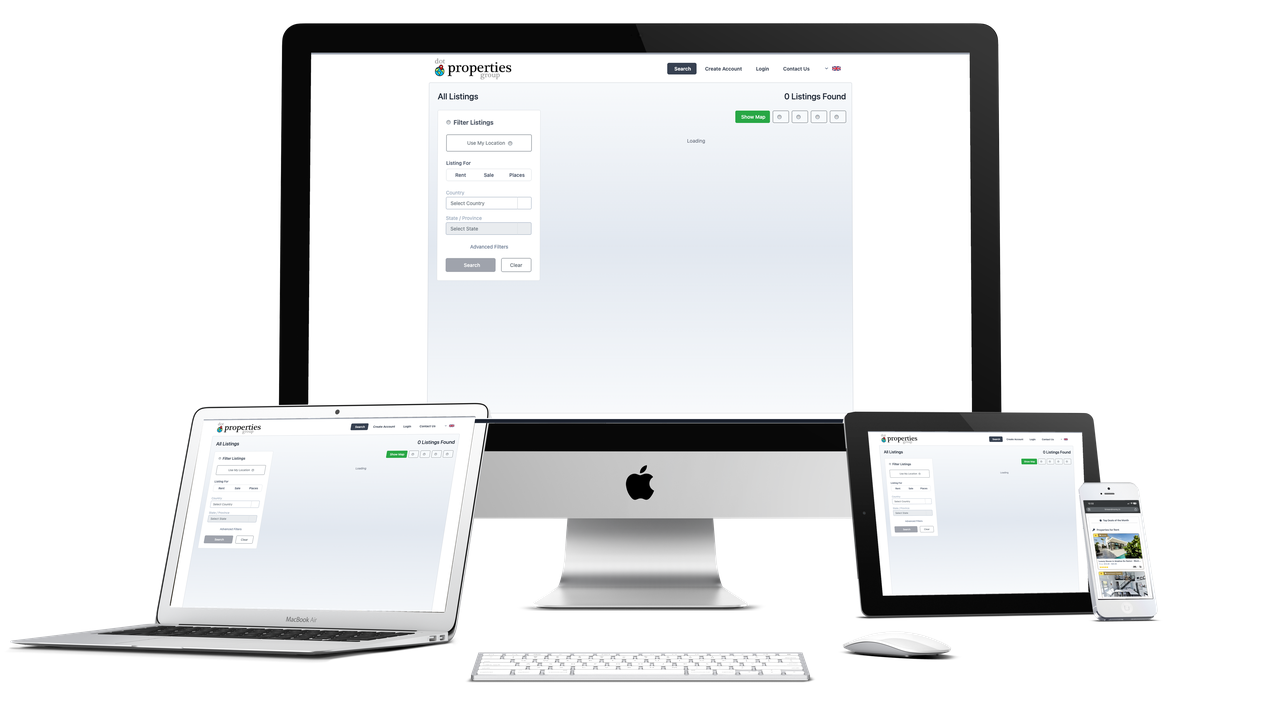
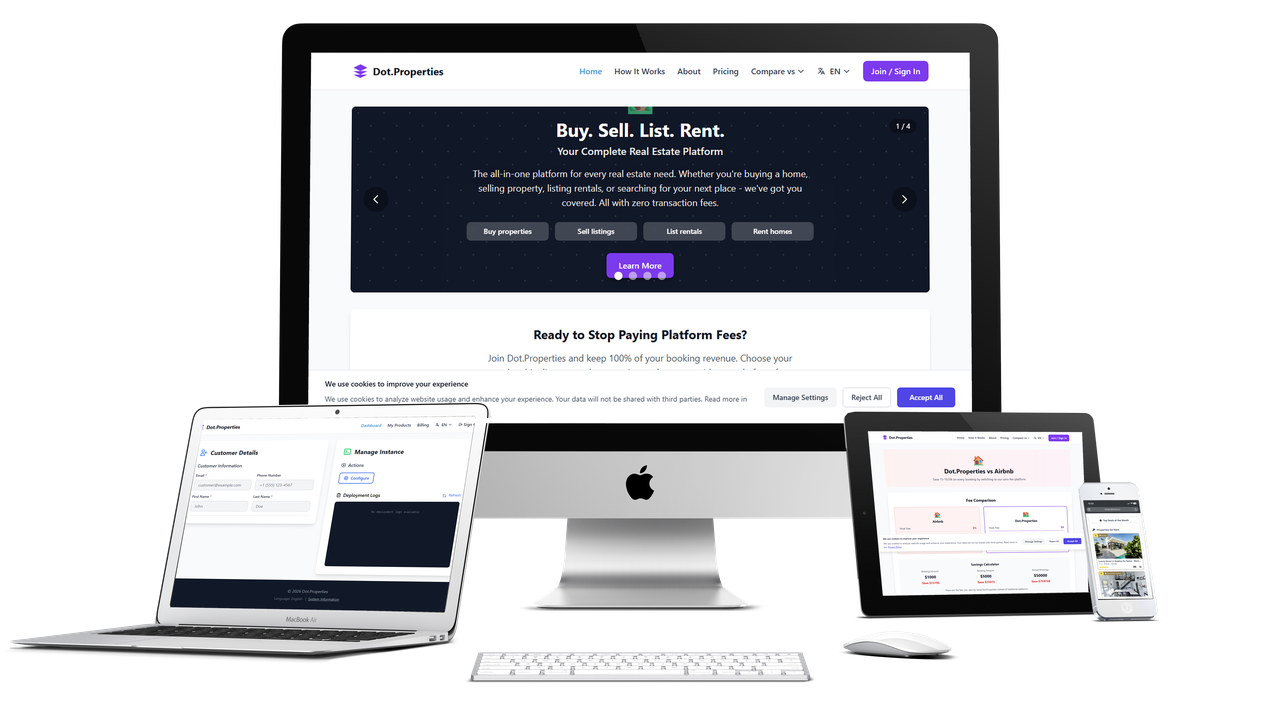
feat(products): corporate screenshots, carousel, and a clean hero edge
Rental.Cloud now shows the network's own Dot.Properties pages - home, the fee
comparison against Airbnb, an operator dashboard, admin payouts - alongside two
tenant storefronts (SupaRide, timeandmoney.io) and the mobile site. The hero
mockup is rebuilt from those, so nothing CrashPad-branded remains. thai.properties
was no use: it is live but has zero listings, so every page renders a loading
state, and huahinrentalhub.com has no DNS records at all.

"A look inside" is a horizontal carousel instead of a grid - the shots are a mix
of wide and tall and never lined up in columns. Every card is one height, snaps,
and keeps its caption.

The hero's angled edge cut through to the page background, which read as a second
lighter chevron; the white section below now tucks under it.

diff --git a/src/pages/Product.vue b/src/pages/Product.vue
@@ -32,13 +32,16 @@
     <section v-if="product.screenshots" class="product-shots">
       <div class="product-shots__inner">
         <h2 class="product-shots__title text-center">A look inside</h2>
-        <div class="product-shots__grid">
+        <p class="product-shots__hint text-center">Scroll for more →</p>
+      </div>
+      <!-- A carousel rather than a grid: the shots are a mix of wide and tall, which
+           never lined up in columns -->
+      <div class="product-shots__track">
         <figure v-for="shot in product.screenshots" :key="shot.src" class="product-shot"
                 :class="{ 'product-shot--portrait': shot.portrait }">
           <img class="lozad" :src="shot.src" :alt="shot.caption"/>
           <figcaption>{{ shot.caption }}</figcaption>
         </figure>
-        </div>
       </div>
     </section>
 
@@ -95,6 +98,10 @@ export default {
 .product-hero {
   background-color: #4c7896;
   color: #fff;
+  /* Paint above the section below so the angled cut reveals it, not the page
+     background - which showed as a second, lighter chevron */
+  position: relative;
+  z-index: 2;
   /* Just enough room under the mockup for the angled edge */
   padding: 7rem 1.5rem calc(9vh + 3rem);
   text-align: center;
@@ -183,7 +190,11 @@ export default {
 
 .product-features {
   background: #fff;
-  padding: 5rem 1.5rem;
+  /* Tuck under the hero's 9vh angled edge */
+  margin-top: -9vh;
+  padding: calc(5rem + 9vh) 1.5rem 5rem;
+  position: relative;
+  z-index: 1;
 
   &__inner {
     max-width: 66rem;
@@ -228,46 +239,56 @@ export default {
     margin: 0 0 2.5rem;
   }
 
-  /* Landscape shots take a row each; phone shots sit side by side */
-  &__grid {
+  &__hint {
+    color: #7b8794;
+    font-size: 0.85rem;
+    margin: -1.5rem 0 2rem;
+  }
+
+  /* Horizontal carousel: cards snap, captions label each one */
+  &__track {
     display: flex;
-    flex-wrap: wrap;
-    justify-content: center;
-    gap: 2.5rem;
-    align-items: flex-start;
+    gap: 1.5rem;
+    overflow-x: auto;
+    scroll-snap-type: x mandatory;
+    padding: 0 max(1.5rem, calc((100vw - 62rem) / 2)) 1.5rem;
+    -webkit-overflow-scrolling: touch;
+    scrollbar-color: #c3ced9 transparent;
   }
 }
 
 .product-shot {
-  /* Full row for landscape captures */
-  flex: 1 1 100%;
+  flex: 0 0 auto;
   margin: 0;
+  scroll-snap-align: center;
+  display: flex;
+  flex-direction: column;
 
   img {
     display: block;
-    width: 100%;
-    height: auto;
+    /* One height for every card, so the row lines up whatever the shape */
+    height: 22rem;
+    width: auto;
+    max-width: none;
     border-radius: 6px;
     /* The shadow follows the image itself; letterboxing it inside a wider box
        left the shadow floating around empty space */
     box-shadow: 0 10px 28px rgba(51, 88, 122, 0.18);
   }
 
-  /* Phone captures are tall and narrow, and sit beside each other */
-  &--portrait {
-    flex: 0 1 auto;
-
+  @media screen and (max-width: 40em) {
     img {
-      width: 15rem;
-      max-width: 100%;
+      height: 16rem;
     }
   }
 
   figcaption {
     margin-top: 0.75rem;
     color: #52606d;
-    font-size: 0.9rem;
+    font-size: 0.85rem;
     text-align: center;
+    max-width: 22rem;
+    align-self: center;
   }
 }
 
